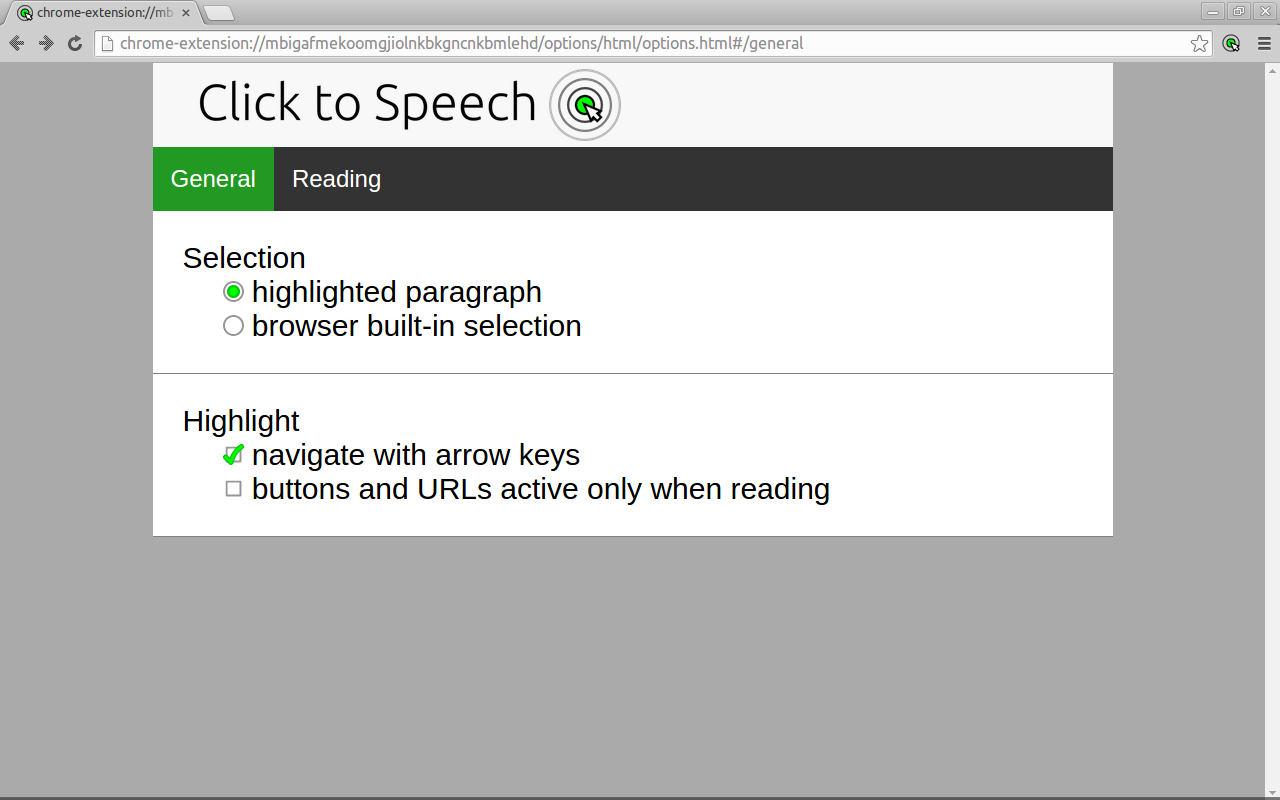
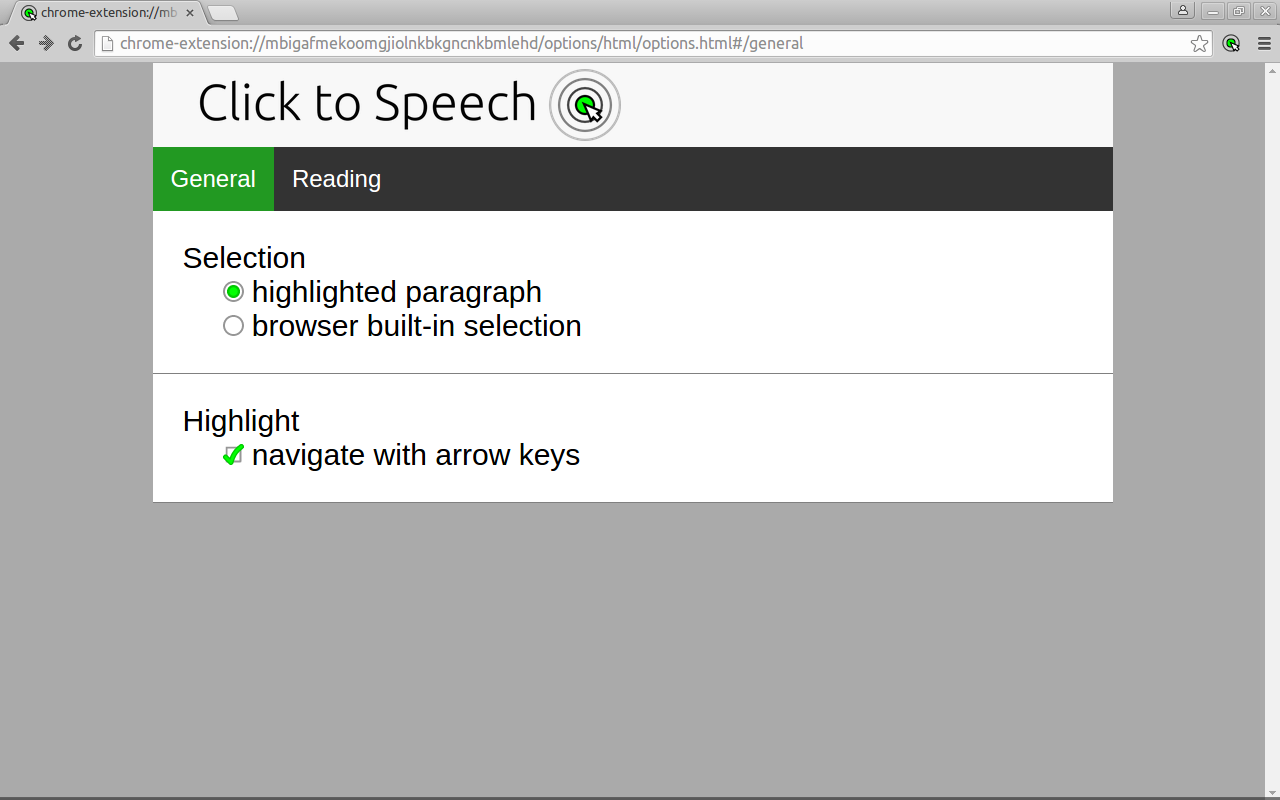
remove setting for noDelegateFirstClick closes #46

Changed region(s): [[0.0938, 0.5938, 0.875, 0.6875], [0.0, 0.0, 0.1875, 0.0625], [0.9062, 0.0, 0.9375, 0.0312]]

diff --git a/chrome/content/content.js b/chrome/content/content.js
@@ -33,7 +33,6 @@
 			,backgroundColor:element.style["background-color"]
 			,color: element.style["color"]
 			,transition:element.style["-webkit-transition"]
-			,cursor:element.style["cursor"]
 		});
 	}
 	
@@ -53,34 +52,28 @@
 				element.style["background"] = "none";
 				element.style["background-color"] = "#4f4";
 				element.style["color"] = "black";
-				if(settings.noDelegateFirstClick) element.style["cursor"] = "pointer";
-				else element2original.get(element).cursor;
 				break;
 			case("loading"):
 			case("playing"):
 				element.style["background"] = "none";
 				element.style["background-color"] = "#bbf";
 				element.style["color"] = "black";
-				element.style["cursor"] = element2original.get(element).cursor;
 				break;
 			case("highlighted-loading"):
 			case("highlighted-playing"):
 				element.style["background"] = "none";
 				element.style["background-color"] = "#88f";
 				element.style["color"] = "black";
-				element.style["cursor"] = element2original.get(element).cursor;
 				break;
 			case("error"):
 				element.style["background"] = "none";
 				element.style["background-color"] = "#fbb";
 				element.style["color"] = "black";
-				element.style["cursor"] = element2original.get(element).cursor;
 				break;
 			case("highlighted-error"):
 				element.style["background"] = "none";
 				element.style["background-color"] = "#f88";
 				element.style["color"] = "black";
-				element.style["cursor"] = element2original.get(element).cursor;
 				break;
 		}
 	}
@@ -122,7 +115,6 @@
 		element.style["background"] = original.background;
 		element.style["background-color"] = original.backgroundColor;
 		element.style["color"] = original.color;
-		element.style["cursor"] = original.cursor;
 		window.setTimeout(function() {
 			//if any status is set (e.g. user hovered element before timeout), we don't revert the the transition
 			if(concatenatedStatus(element)) return;
@@ -427,12 +419,6 @@
 		//the requested element is NOT being read|loading|error
 		requestedElement = status2element.highlighted;
 		readText(getHighlightedElementText());
-			
-		//check if click event needs to be delegated
-		if(settings.noDelegateFirstClick) {
-			clickEvent.stopPropagation();
-			clickEvent.preventDefault();
-		}
 	}
 
 	// ============================================= browser select =============================================
@@ -567,7 +553,6 @@
 		settings.turnedOn = storedSettings.turnedOn;
 		settings.selectType = storedSettings.selectType;
 		settings.highlightOnArrows = storedSettings.highlightOnArrows;
-		settings.noDelegateFirstClick = storedSettings.noDelegateFirstClick;
 
 		digestSettings();
 	});

diff --git a/chrome/background/js/background.js b/chrome/background/js/background.js
@@ -63,11 +63,8 @@ require(["SettingsHandler", "tts/TtsProvider","icon/drawer"], function(settingsH
 				break;
 			case("speed"): tts.speed = value; break;
 			case("selectType"):
-			case("highlightOnHover"):
 			case("highlightOnArrows"):
-			case("readOnClick"):
-			case("readOnSpace"):
-			case("noDelegateFirstClick"): notifyContentJs({action:"set", setting:setting, value:value});break;
+			case("readOnClick"): notifyContentJs({action:"set", setting:setting, value:value});break;
 		}
 	}
 	

diff --git a/chrome/options/js/generalOptions.js b/chrome/options/js/generalOptions.js
@@ -12,7 +12,6 @@ angular.module('optionsApp')
 	];
 	$scope.highlightOptions = [
 		{value:"highlightOnArrows", text:toMessage("highlightOnArrows"), selected:false}
-		,{value:"noDelegateFirstClick", text:toMessage("noDelegateFirstClick"), selected:false}
 	];
 
 	//user interaction with the lists

diff --git a/chrome/background/js/SettingsHandler.js b/chrome/background/js/SettingsHandler.js
@@ -17,7 +17,6 @@ define([], function() {
 				turnedOn:true
 				,selectType:"highlightSelect"
 				,highlightOnArrows:true
-				,noDelegateFirstClick:false
 				,tts:"iSpeech"
 				,gender:"female"
 				,speed:1.2
